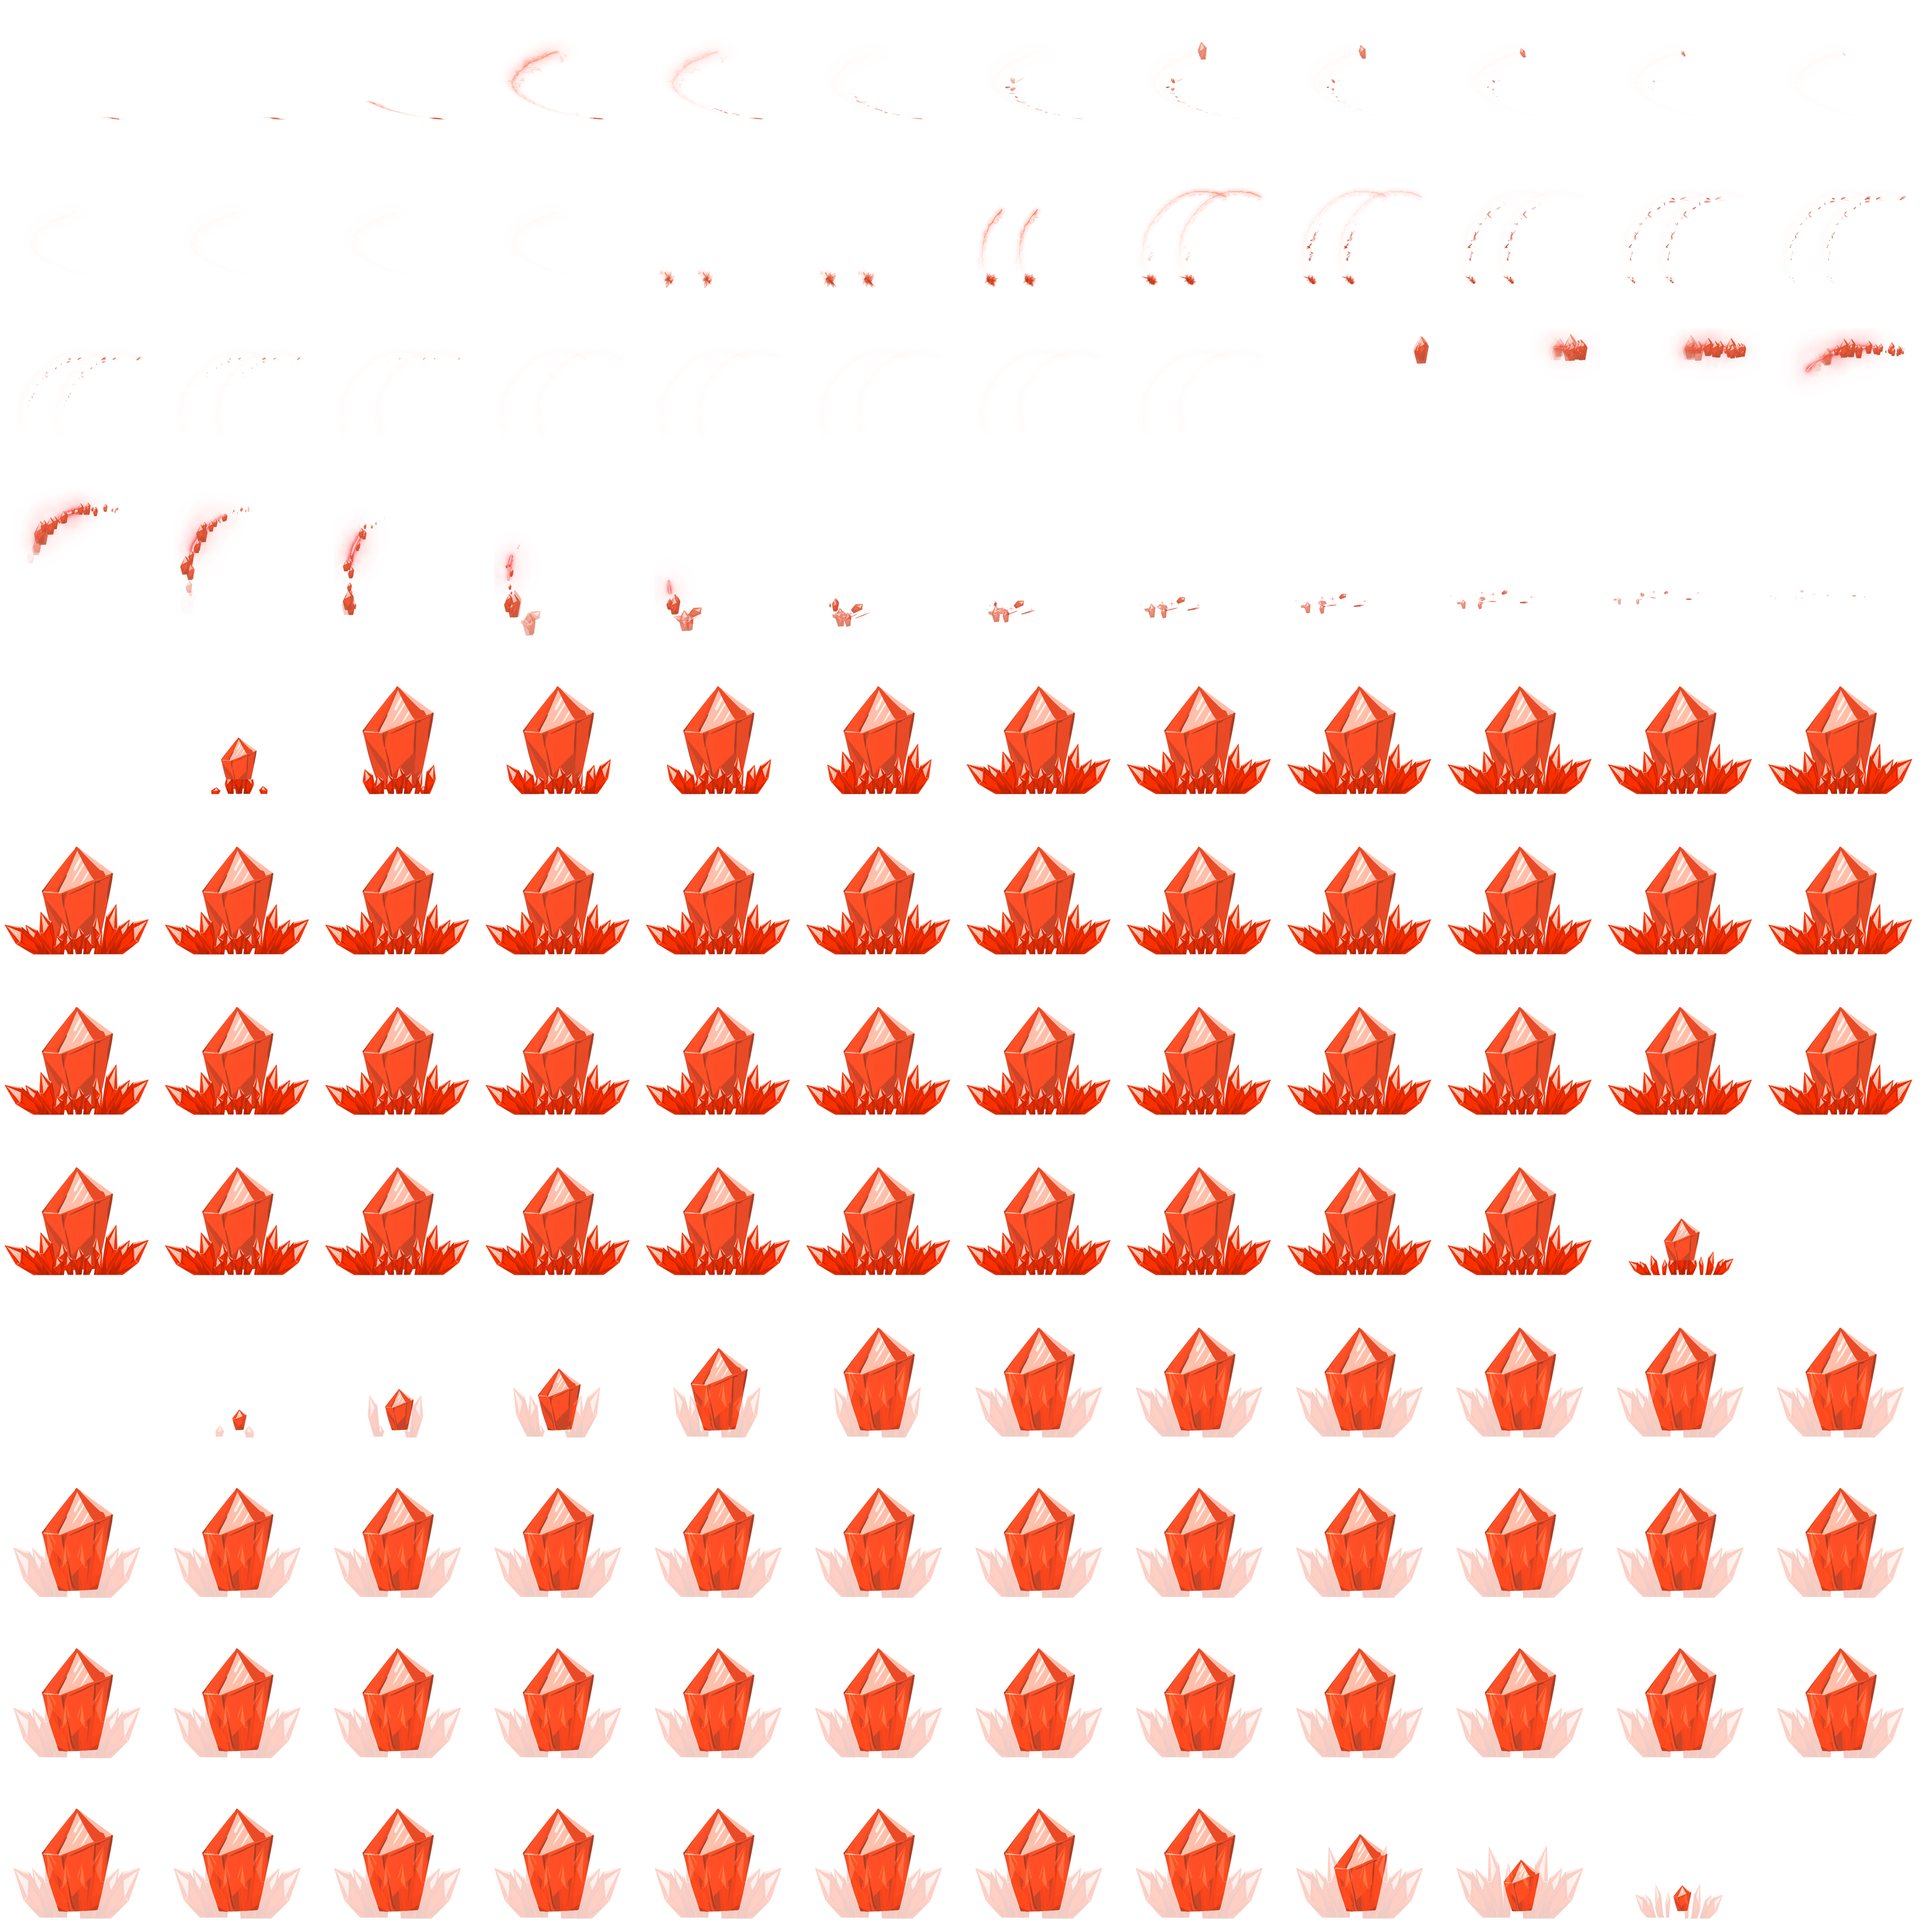
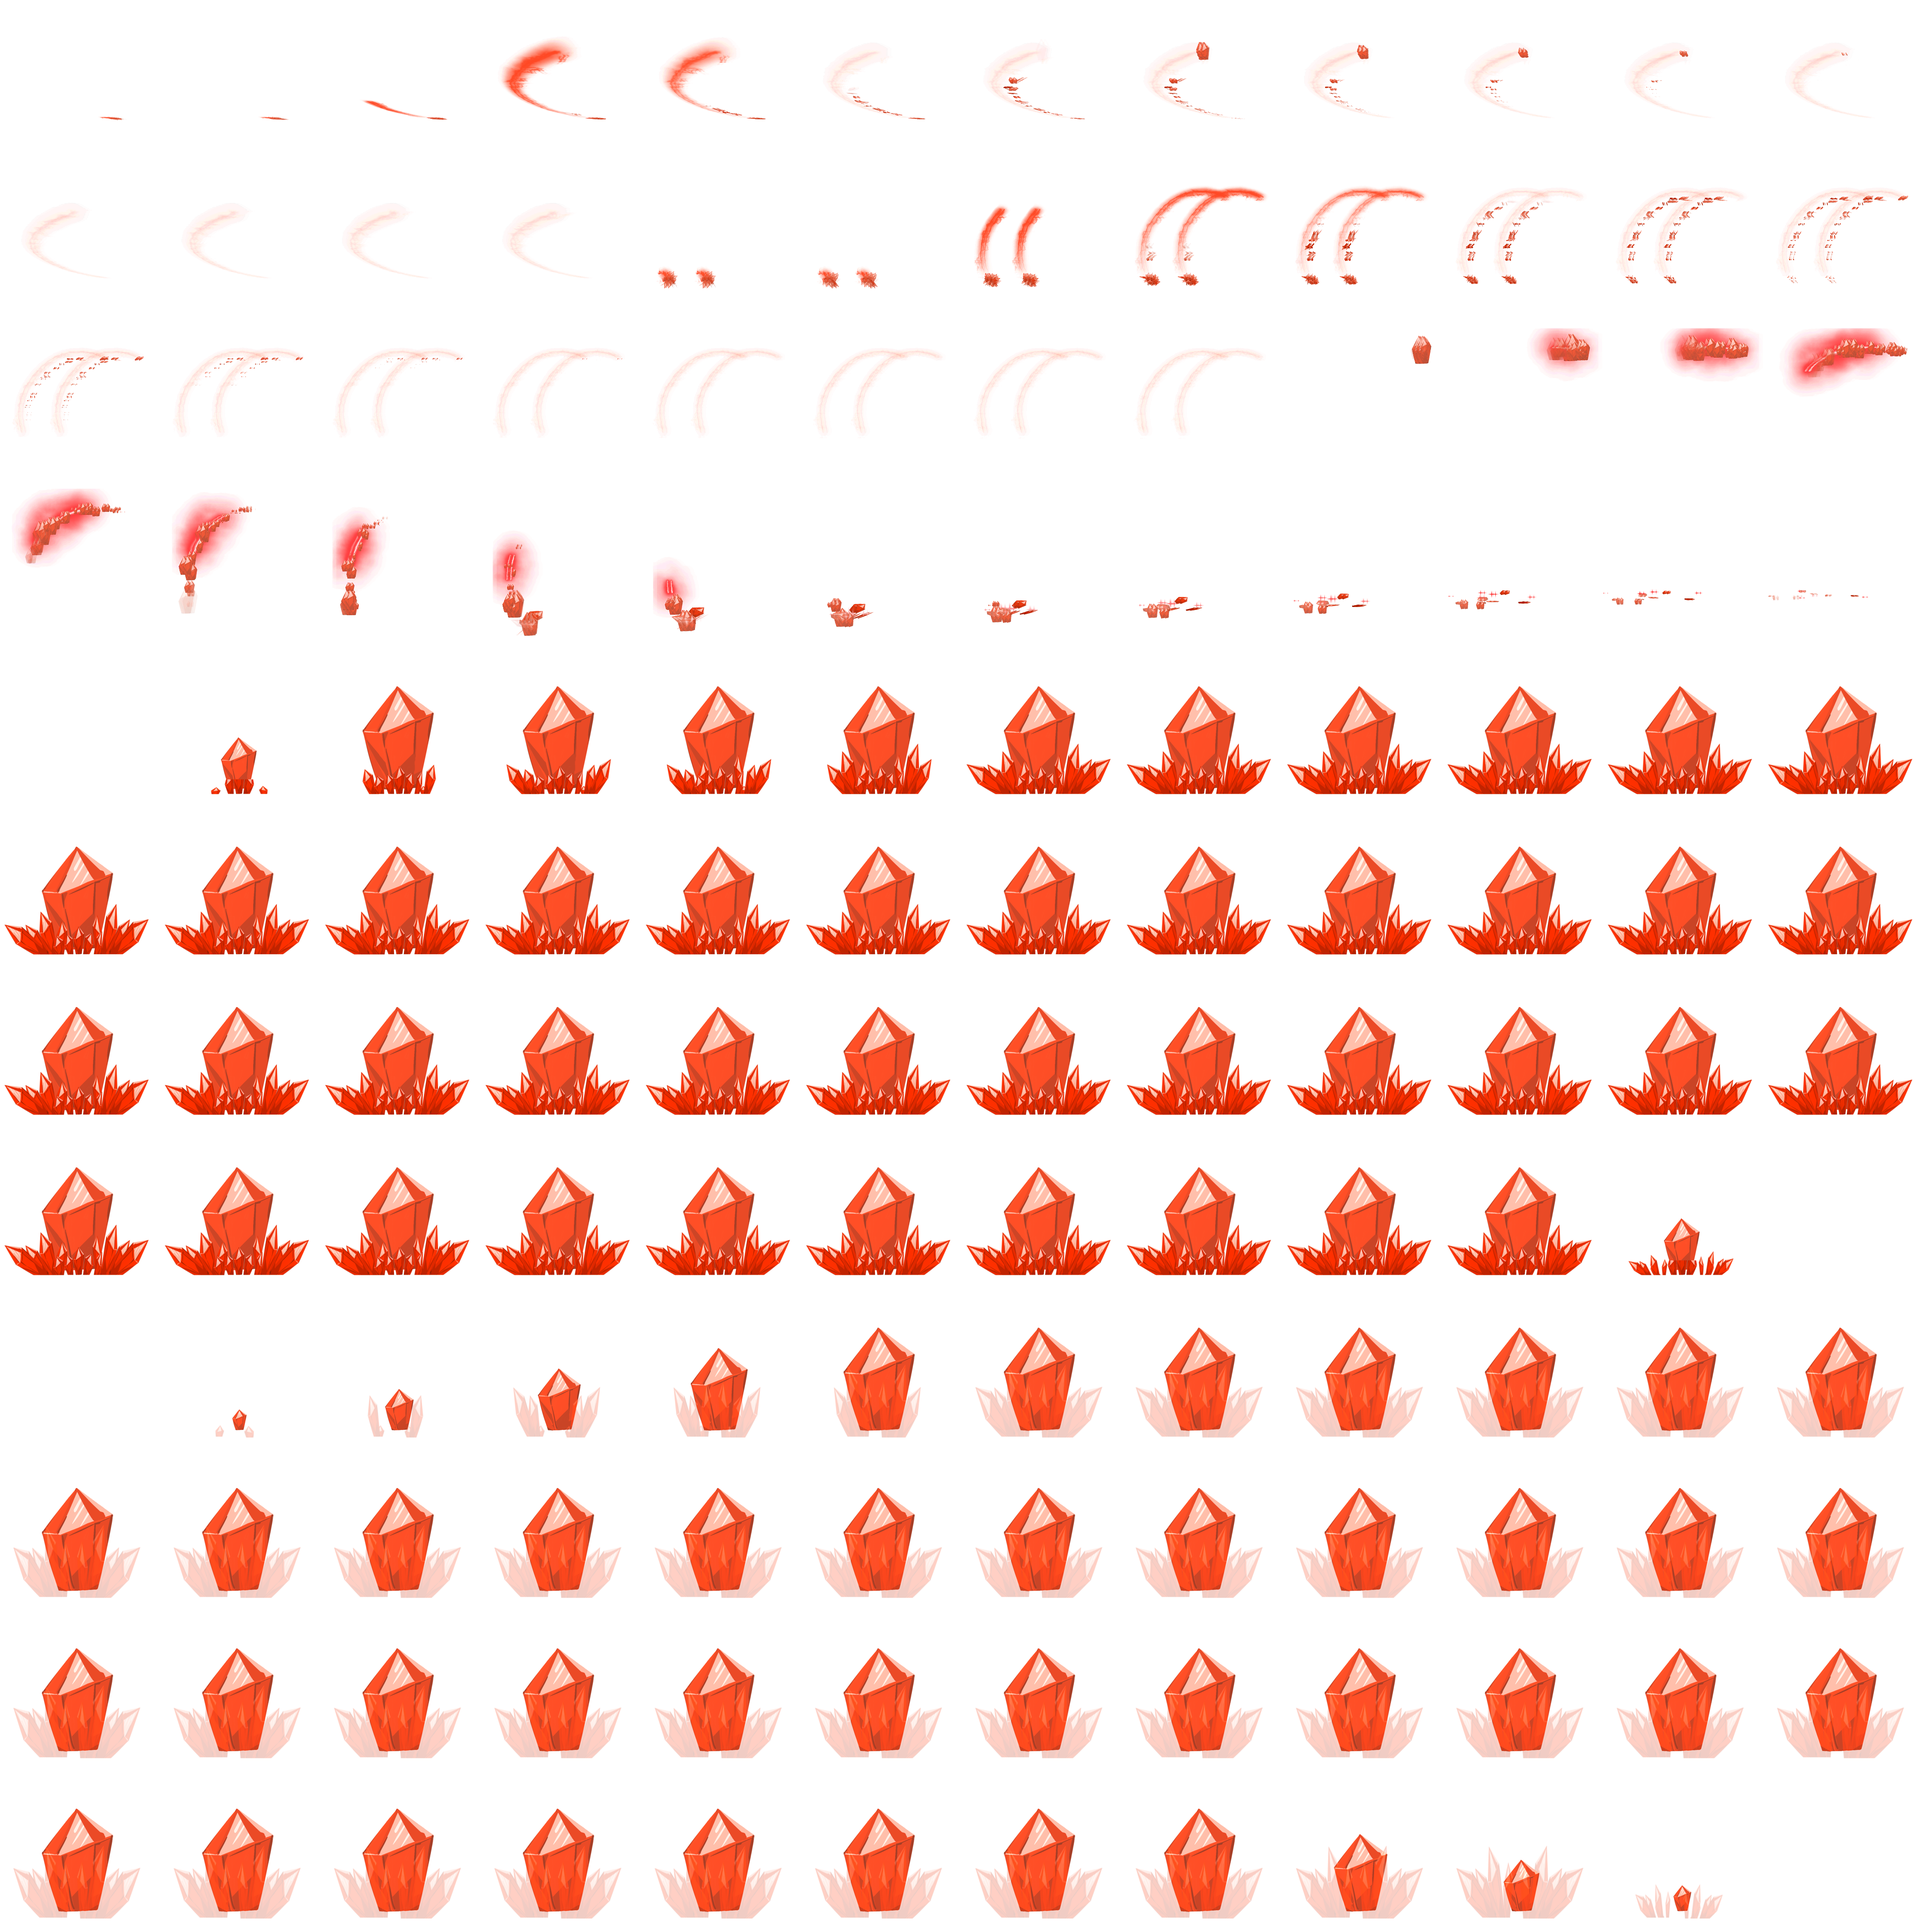
重新开始时贴图错误bug、怪物杂项

diff --git a/MyFrame/Player_ResourceSystem.h b/MyFrame/Player_ResourceSystem.h
@@ -74,8 +74,15 @@ public:
 	float GetFeverTimeDraw(void) const { return FeverTimeDraw / FeverCountdown; }
 	void Reset(void)
 	{
-		for (int i = 1;i < TotalSlots;i++)
-			Slots[i].SetWeapon(WEAPON_TYPE_NONE, 0.0f);
+		// normal slots
+		for (int i = 1;i < TotalSlots;i++) Slots[i].SetWeapon(WEAPON_TYPE_NONE, 0.0f);
+		CurrentSlot = 0;
+		// Fever related
+		CanChange = { false,WEAPON_TYPE_NONE };
+		IsChange = false;
+		IsFever = false;
+		FeverTime = 0.0f;
+		FeverTimeDraw = 0.0f;
 	}
 private:
 	void DiscardWeapon(int num);

diff --git a/MyFrame/Enemy_Red_1.h b/MyFrame/Enemy_Red_1.h
@@ -25,7 +25,7 @@ public:
 		SetAttackCollisionSize({ 3.0f,8.0f,2.0f });
 		SetAttackInterval(2.0f);
 		SetEnemyType(ENEMY_TYPE_RED);
-		SetSearchArea({ 200.0f,10.0f,200.0f });
+		SetSearchArea({ 100.0f,10.0f,100.0f });
 
 		// graphics init
 		visualPre = std::make_unique<Sprite3D>(gfx, std::vector<std::string>{"asset\\Images\\\Enemy\\Enemy_Red_1.png"});
